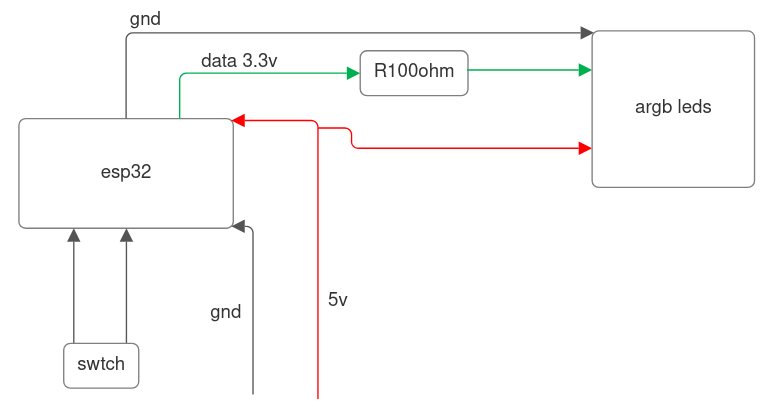
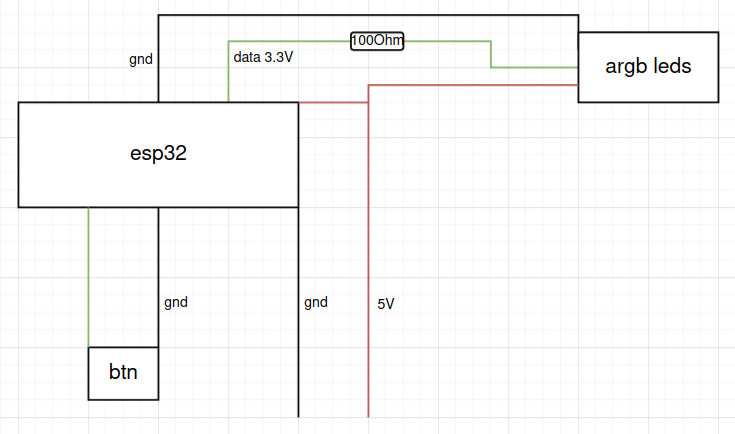
fixed button; added rainbow modes; code cleanup

diff --git a/readme.md b/readme.md
@@ -5,6 +5,8 @@ My attempt to DIY ARGB effects suited my needs with spare ESP32.
 - Off
 - Flickering
 - Color chase
+- Rainbow
+- Rainbow chase
 
 ## Simplified schematic of current build
 ![schematic](simplified_schematic.png)
